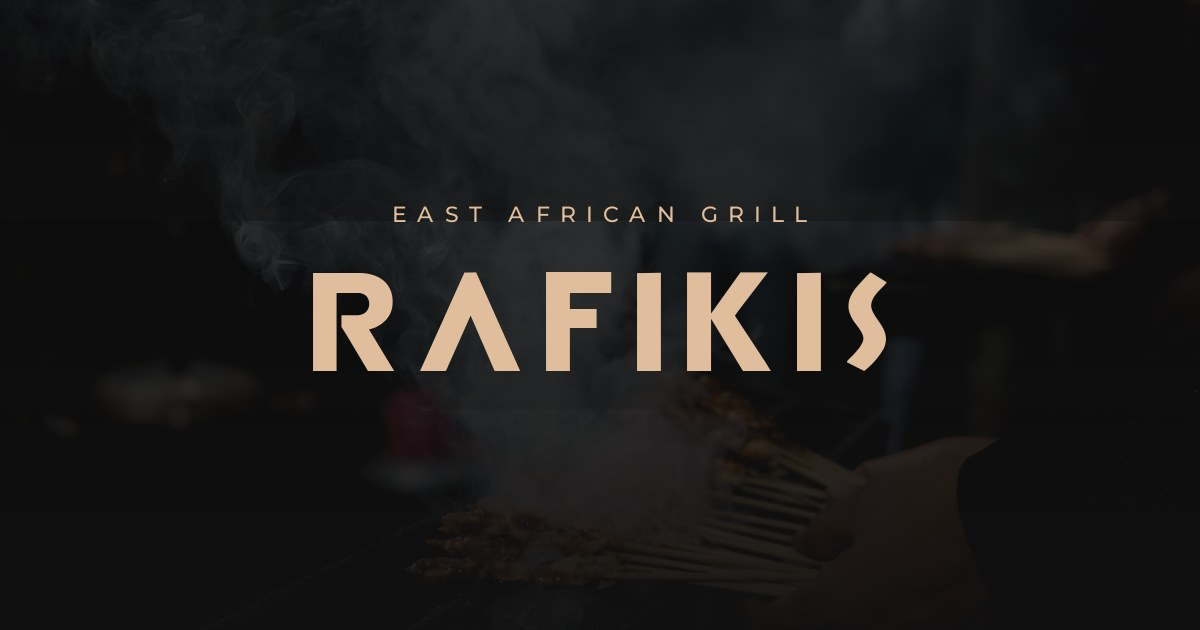
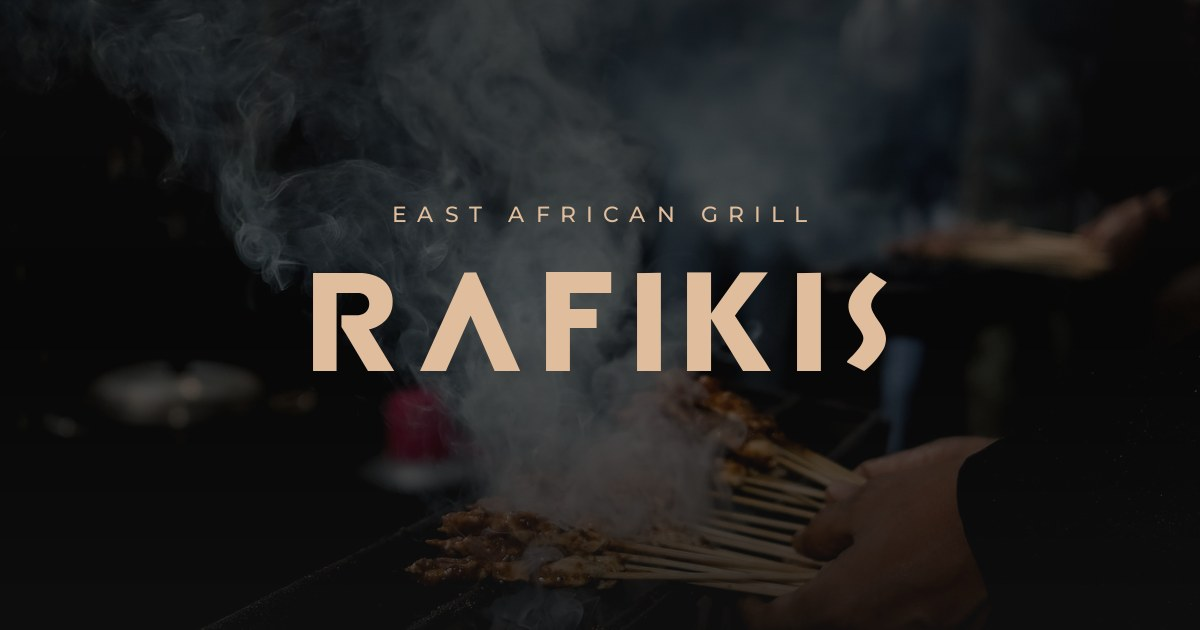
added some fixes for UI

diff --git a/src/routes/index.tsx b/src/routes/index.tsx
@@ -42,7 +42,7 @@ function Index() {
               alt="Charcoal grill with East African mishkaki skewers and smoke"
               className="h-full w-full object-cover animate-hero-zoom"
             />
-            <div className="absolute inset-0 bg-gradient-to-b from-[#111]/85 via-[#111]/75 to-[#111]" />
+            <div className="absolute inset-0 bg-gradient-to-b from-[#111]/60 via-[#111]/40 to-[#111]" />
           </div>
 
           <div className="relative z-10 flex min-h-[calc(100vh-5rem)] flex-col items-center justify-center px-6 py-24 text-center">
@@ -113,6 +113,7 @@ function Index() {
                 alt="Elephant grazing in East African savanna at midday"
                 className="absolute inset-0 h-full w-full object-cover"
               />
+              <div className="absolute inset-0 bg-[#111]/25" />
               <div className="absolute inset-0 bg-gradient-to-l from-transparent to-[#111]/40" />
             </div>
           </div>

diff --git a/src/styles.css b/src/styles.css
@@ -271,7 +271,7 @@
 
 @keyframes hero-zoom {
   from {
-    transform: scale(1.06);
+    transform: scale(1.03);
   }
   to {
     transform: scale(1);
